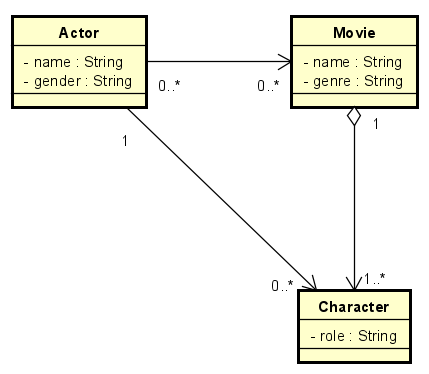
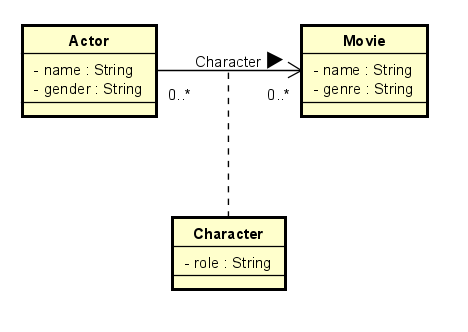
Update classes/UML

diff --git a/AssignmentTwo/QuestionFive/Movie.java b/AssignmentTwo/QuestionFive/Movie.java
@@ -1,13 +1,31 @@
 package AssignmentTwo.QuestionFive;
 
+import java.util.ArrayList;
+import java.util.List;
+
 public class Movie {
 	private String name;
 	private String genre;
-	private Person person;
+	private List<Watch> listWatch;
 	
-	public Movie(String name, String genre, Person person) {
+	public Movie(String name, String genre, List<Watch> listWatch) {
 		this.name = name;
 		this.genre = genre;
-		this.person = person;
+		this.listWatch = listWatch;
+	}
+	
+	public void addWatch(Watch watch) {
+		if(listWatch == null) {
+			listWatch = new ArrayList<Watch>();
+		}
+		listWatch.add(watch);
+	}
+	
+	public List<Person> getPeople(){
+		List<Person> listPeople = new ArrayList<Person>();
+		for(Watch watch : listWatch) {
+			listPeople.add(watch.getPerson());
+		}
+		return listPeople;
 	}
 }

diff --git a/AssignmentTwo/QuestionFive/Person.java b/AssignmentTwo/QuestionFive/Person.java
@@ -1,11 +1,29 @@
 package AssignmentTwo.QuestionFive;
 
+import java.util.ArrayList;
+import java.util.List;
+
 public class Person {
 	private String name;
-	private Movie movie;
+	private List<Watch> listWatch;
 	
-	public Person(String name, Movie movie) {
+	public Person(String name, List<Watch> listWatch) {
 		this.name = name;
-		this.movie = movie;
+		this.listWatch = listWatch;
+	}
+	
+	public void addWatch(Watch watch) {
+		if(listWatch == null) {
+			listWatch = new ArrayList<Watch>();
+		}
+		listWatch.add(watch);
+	}
+	
+	public List<Movie> getMovies(){
+		List<Movie> listMovies = new ArrayList<Movie>();
+		for(Watch watch : listWatch) {
+			listMovies.add(watch.getMovie());
+		}
+		return listMovies;
 	}
 }

diff --git a/AssignmentTwo/QuestionFive/Book.java b/AssignmentTwo/QuestionFive/Book.java
@@ -10,28 +10,4 @@ public class Book {
 		author = "";
 		course = null;
 	}
-	
-	public String getName() {
-		return name;
-	}
-
-	public void setName(String name) {
-		this.name = name;
-	}
-
-	public String getAuthor() {
-		return author;
-	}
-
-	public void setAuthor(String author) {
-		this.author = author;
-	}
-
-	public Course getCourse() {
-		return course;
-	}
-
-	public void setCourse(Course course) {
-		this.course = course;
-	}
 }

diff --git a/AssignmentTwo/QuestionFive/Watch.java b/AssignmentTwo/QuestionFive/Watch.java
@@ -1,7 +1,21 @@
 package AssignmentTwo.QuestionFive;
 
 public class Watch {
+	private Person person;
+	private Movie movie;
 	private int rating;
 	
+	public Watch(Person person, Movie movie, int rating) {
+		this.person = person;
+		this.movie = movie;
+		this.rating = rating;
+	}
 	
+	public Person getPerson() {
+		return person;
+	}
+	
+	public Movie getMovie() {
+		return movie;
+	}
 }

diff --git a/AssignmentTwo/QuestionFive/Course.java b/AssignmentTwo/QuestionFive/Course.java
@@ -1,10 +1,12 @@
 package AssignmentTwo.QuestionFive;
 
+import java.util.List;
+
 public class Course {
 	private int code;
-	private Book[] books;
+	private List<Book> books;
 	
-	public Course(int code, Book[] books) {
+	public Course(int code, List<Book> books) {
 		this.code = code;
 		this.books = books;
 	}
